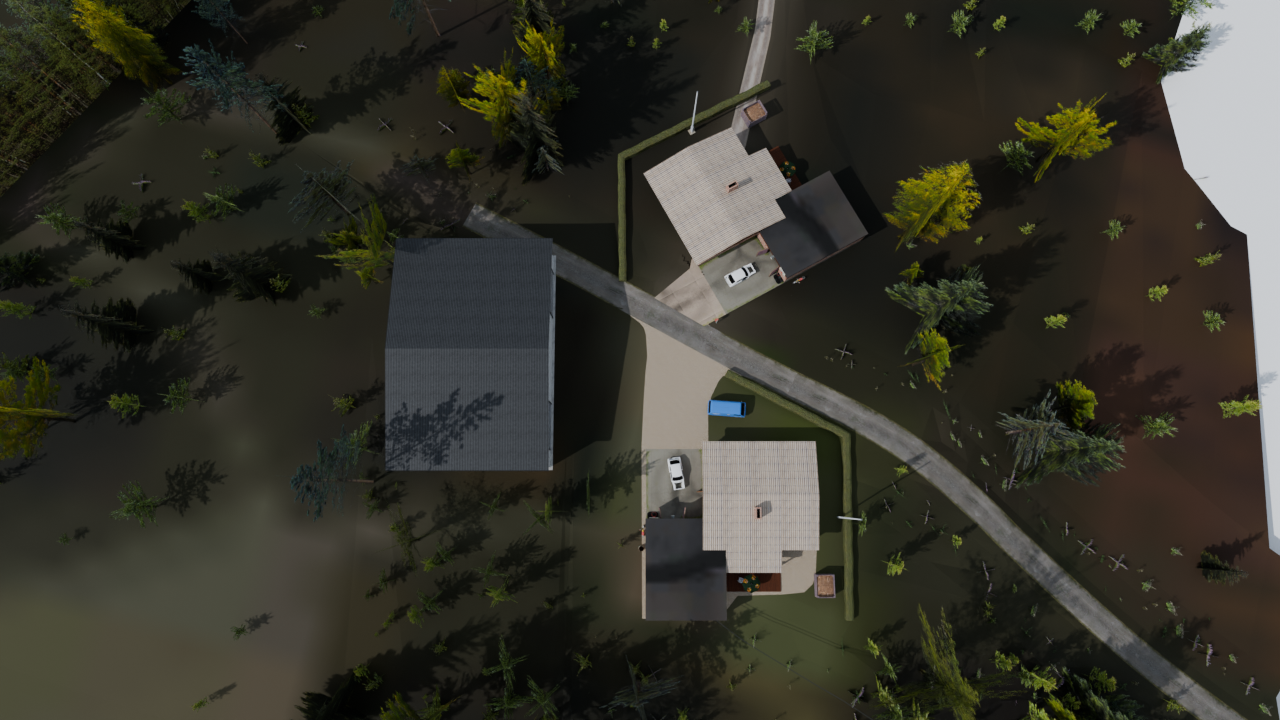
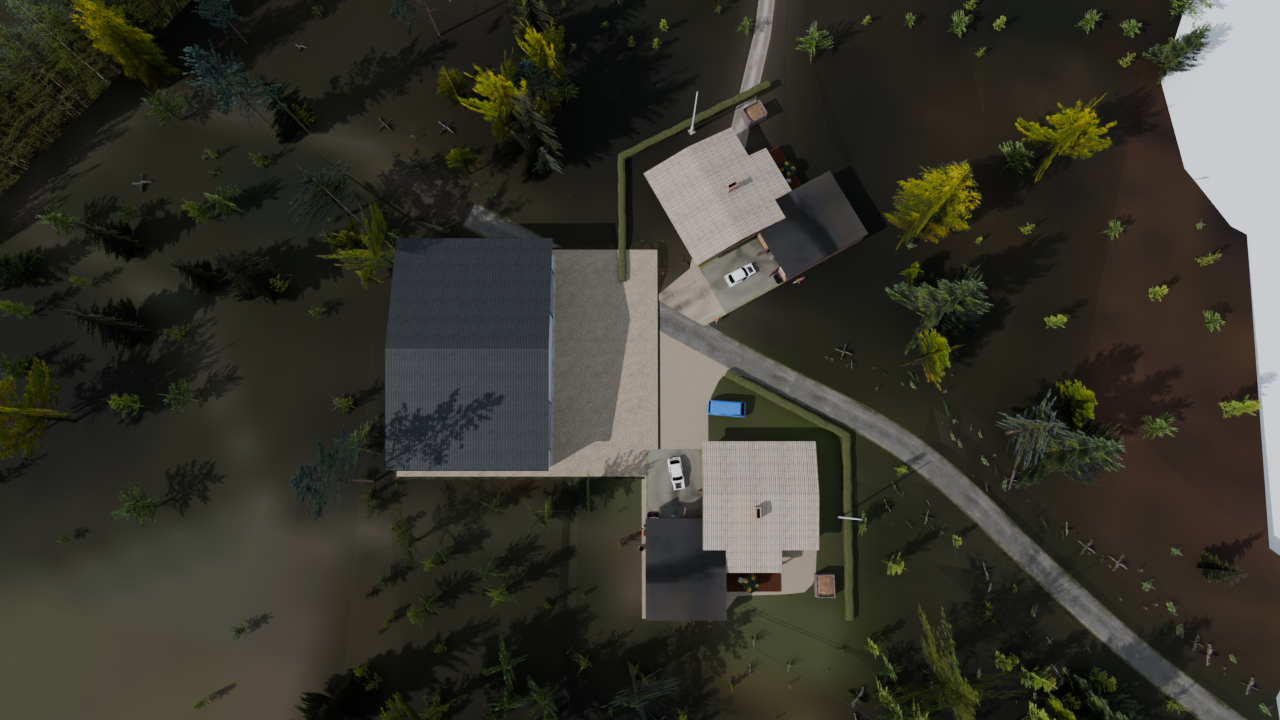
Plataforma densa no nível do piso (galpão e pátio de cascalho) com rampa até o terreno, no lugar de entortar a malha grossa do terreno

Changed region(s): [[0.3125, 0.3361, 0.5312, 0.6722]]

diff --git a/blender/mapa_galpao.py b/blender/mapa_galpao.py
@@ -25,6 +25,11 @@ FLAT_MARGIN = 2.0
 FLAT_BLEND = 6.0
 FLAT_BELOW = 0.04
 FRONT_CLEAR = 12.0
+PLATFORM_CELL = 0.5
+PLATFORM_SLOPE = 0.3
+PLATFORM_REACH = 10.0
+PLATFORM_BELOW = 0.02
+CORE_MARGIN = 1.0
 COLLECTION = "MAPA"
 
 
@@ -216,6 +221,88 @@ def clear_and_flatten(objects, floor, W, D):
     return flattened, removed
 
 
+def platform(col, objects, floor, W, D):
+    from mathutils.bvhtree import BVHTree
+    dg = bpy.context.evaluated_depsgraph_get()
+    grounds = [BVHTree.FromObject(o, dg) for o in objects if o.type == "MESH" and "TERRAIN_OBJ" in o.name]
+    gravel_mat = next((o.material_slots[0].material for o in objects if o.name.endswith("TERRAIN_OBJ/Gravel") and o.material_slots), None)
+    grass_mat = next((o.material_slots[0].material for o in objects if o.name.endswith("TERRAIN_OBJ/Grass1") and o.material_slots), None)
+
+    def ground(x, y):
+        best = None
+        for tree in grounds:
+            hit = tree.ray_cast(Vector((x, y, floor + 30.0)), Vector((0, 0, -1)))
+            if hit[0] is not None and (best is None or hit[0].z > best):
+                best = hit[0].z
+        return best
+
+    cx0, cx1 = FRONT_X - D - CORE_MARGIN, FRONT_X + FRONT_CLEAR
+    cy0, cy1 = LEFT_Y - CORE_MARGIN, LEFT_Y + W + CORE_MARGIN
+    top = floor - PLATFORM_BELOW
+    gx0, gx1 = cx0 - PLATFORM_REACH, cx1 + PLATFORM_REACH
+    gy0, gy1 = cy0 - PLATFORM_REACH, cy1 + PLATFORM_REACH
+    nx = int(round((gx1 - gx0) / PLATFORM_CELL)) + 1
+    ny = int(round((gy1 - gy0) / PLATFORM_CELL)) + 1
+    heights = {}
+    for i in range(nx):
+        for j in range(ny):
+            x, y = gx0 + i * PLATFORM_CELL, gy0 + j * PLATFORM_CELL
+            g = ground(x, y)
+            if g is None:
+                continue
+            d = math.hypot(max(cx0 - x, 0.0, x - cx1), max(cy0 - y, 0.0, y - cy1))
+            want = top - d * PLATFORM_SLOPE
+            heights[(i, j)] = (max(want, g - 0.05), want > g + 0.005, d == 0.0)
+
+    bm = bmesh.new()
+    uv = bm.loops.layers.uv.new("UVMap")
+    verts = {}
+    faces = 0
+    for i in range(nx - 1):
+        for j in range(ny - 1):
+            quad = [(i, j), (i + 1, j), (i + 1, j + 1), (i, j + 1)]
+            if any(k not in heights for k in quad) or not any(heights[k][1] for k in quad):
+                continue
+            face_verts = []
+            for k in quad:
+                if k not in verts:
+                    verts[k] = bm.verts.new((gx0 + k[0] * PLATFORM_CELL, gy0 + k[1] * PLATFORM_CELL, heights[k][0]))
+                face_verts.append(verts[k])
+            face = bm.faces.new(face_verts)
+            face.material_index = 0 if all(heights[k][2] for k in quad) else 1
+            for loop in face.loops:
+                loop[uv].uv = (loop.vert.co.x / 4.0, loop.vert.co.y / 4.0)
+            faces += 1
+    me = bpy.data.meshes.new("Plataforma")
+    bm.normal_update()
+    bm.to_mesh(me)
+    bm.free()
+    gravel = gravel_mat or bpy.data.materials.new("plataforma_cascalho")
+    grass = grass_mat or bpy.data.materials.new("plataforma_grama")
+    me.materials.append(gravel)
+    me.materials.append(grass)
+    obj = bpy.data.objects.new("Plataforma", me)
+    col.objects.link(obj)
+    return faces
+
+
+def clear_trees(objects, W, D):
+    x0, x1 = FRONT_X - D - FLAT_MARGIN, FRONT_X + FLAT_MARGIN + FRONT_CLEAR
+    y0, y1 = LEFT_Y - FLAT_MARGIN, LEFT_Y + W + FLAT_MARGIN
+    removed = 0
+    for obj in objects:
+        if obj.type != "MESH" or "FOLIAGE" not in obj.name:
+            continue
+        bm = bmesh.new()
+        bm.from_mesh(obj.data)
+        doomed = [f for f in bm.faces if x0 <= f.calc_center_median().x <= x1 and y0 <= f.calc_center_median().y <= y1]
+        removed += len(doomed)
+        bmesh.ops.delete(bm, geom=doomed, context="FACES")
+        bm.to_mesh(obj.data)
+        bm.free()
+    return removed
+
+
 def save_view():
     for screen in bpy.data.screens:
         for area in screen.areas:
@@ -340,8 +427,9 @@ def main():
         imported = import_area(col)
         verts = 0
         floor, (low, high) = place_galpao(grid, xs, zs)
-        flattened, removed = clear_and_flatten(imported, floor, 24.0, 16.0)
-        print(f"[MSC Duo] área do jogo importada: {len(imported)} objetos, {removed} faces de árvores removidas (galpão e pátio da frente)")
+        removed = clear_trees(imported, 24.0, 16.0)
+        flattened = platform(col, imported, floor, 24.0, 16.0)
+        print(f"[MSC Duo] área do jogo importada: {len(imported)} objetos, {removed} faces de árvores removidas, plataforma com {flattened} quadrados")
     else:
         ground = terrain(col, grid, xs, zs, cx, cz, half)
         verts = house2(col)
